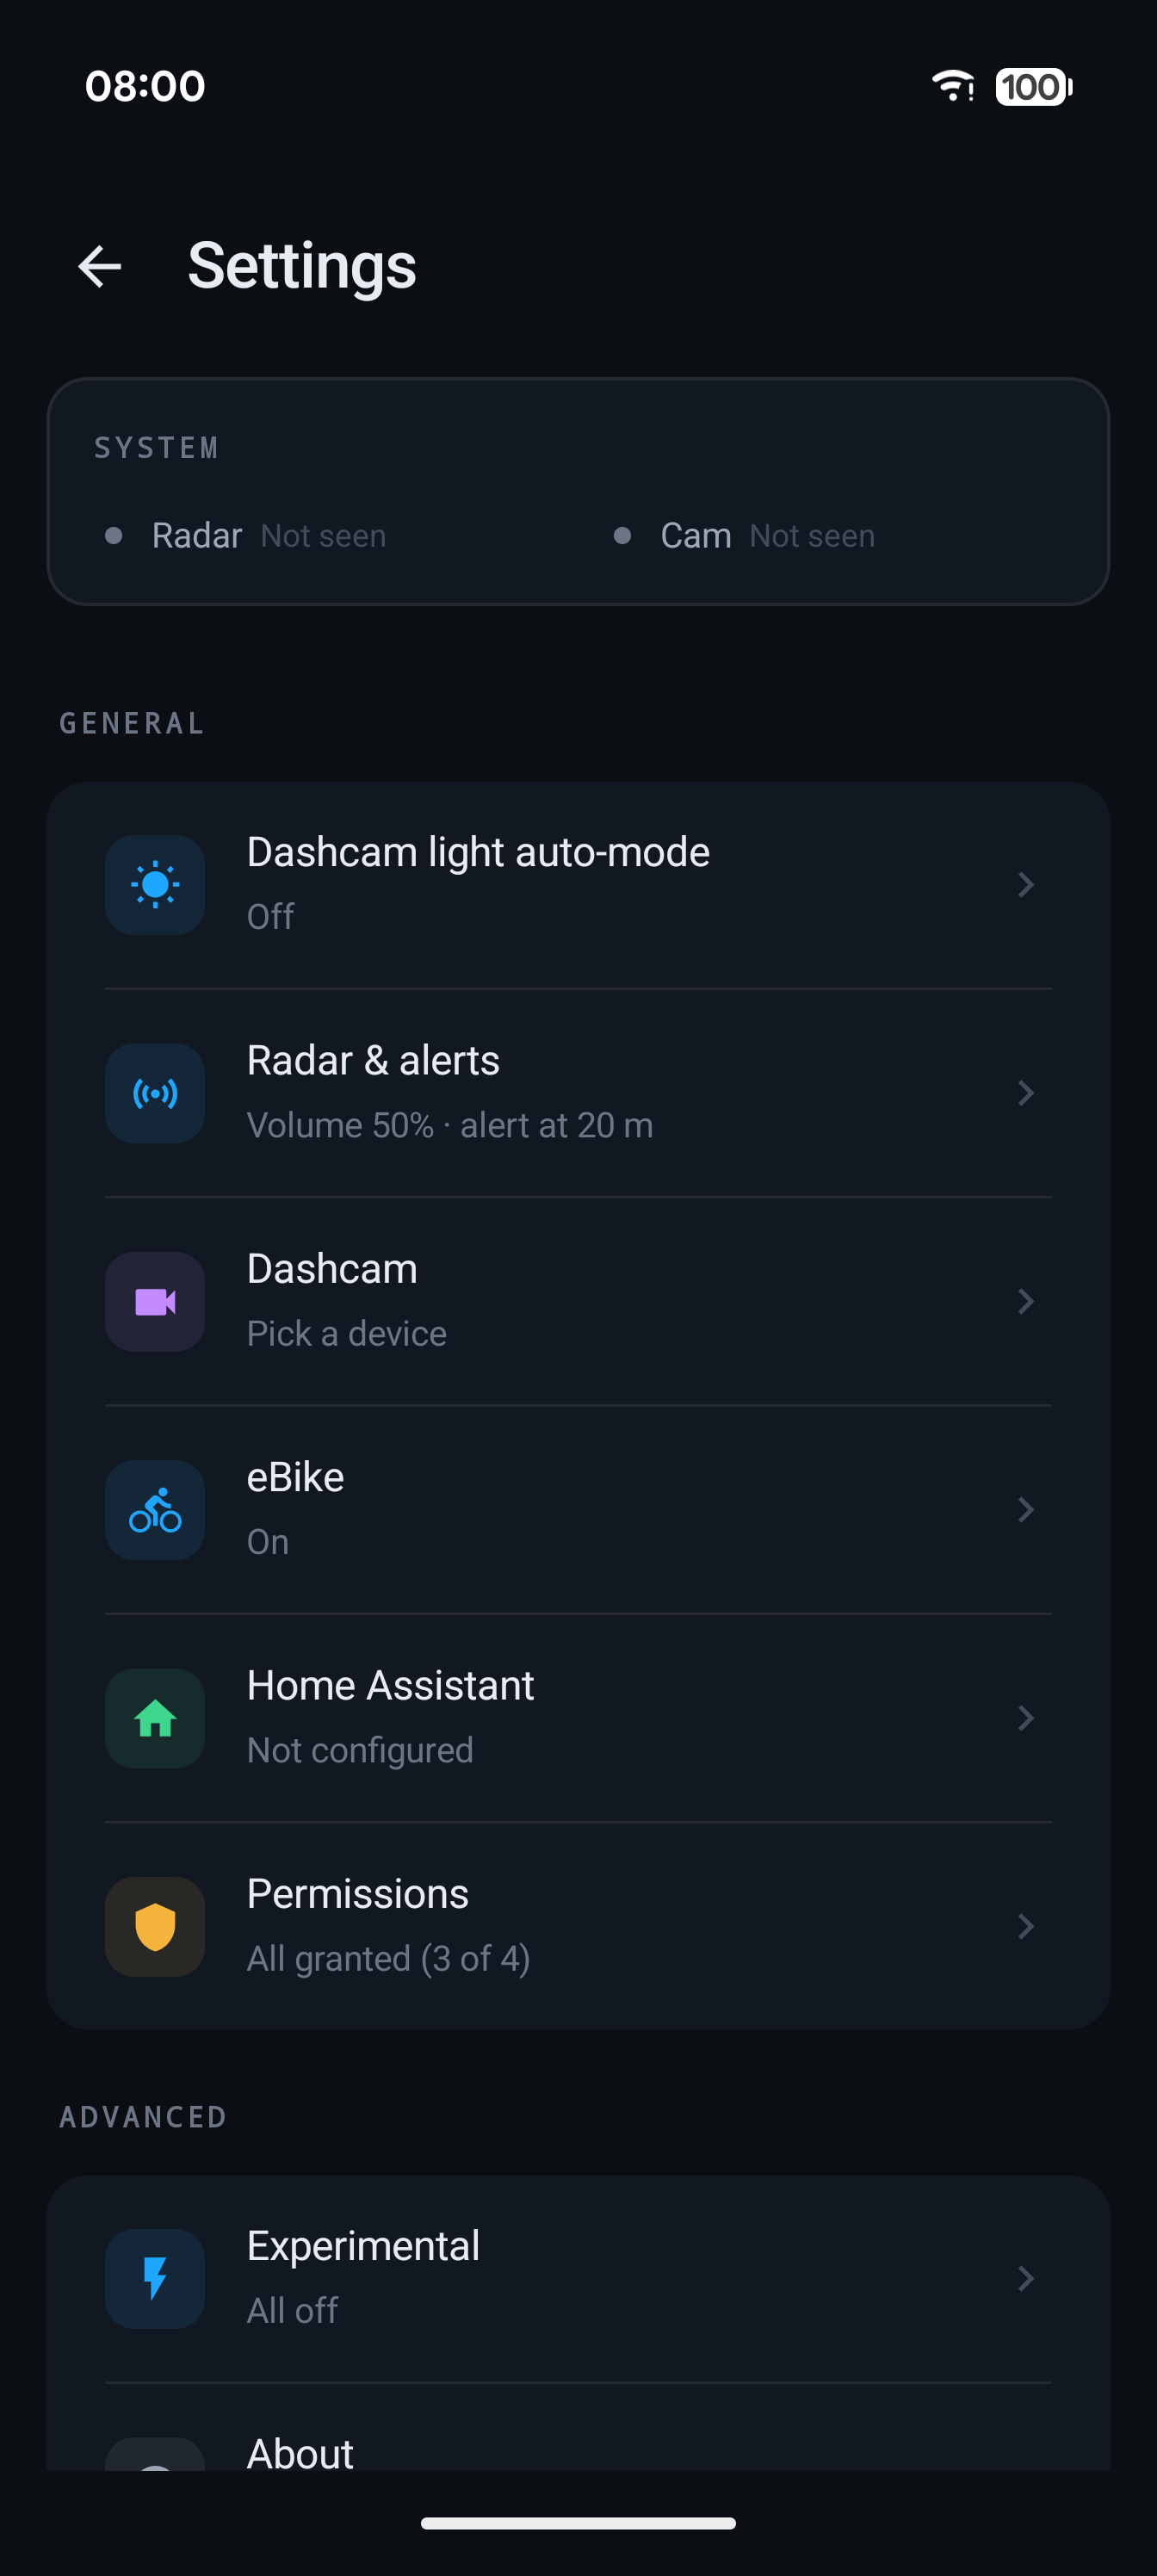
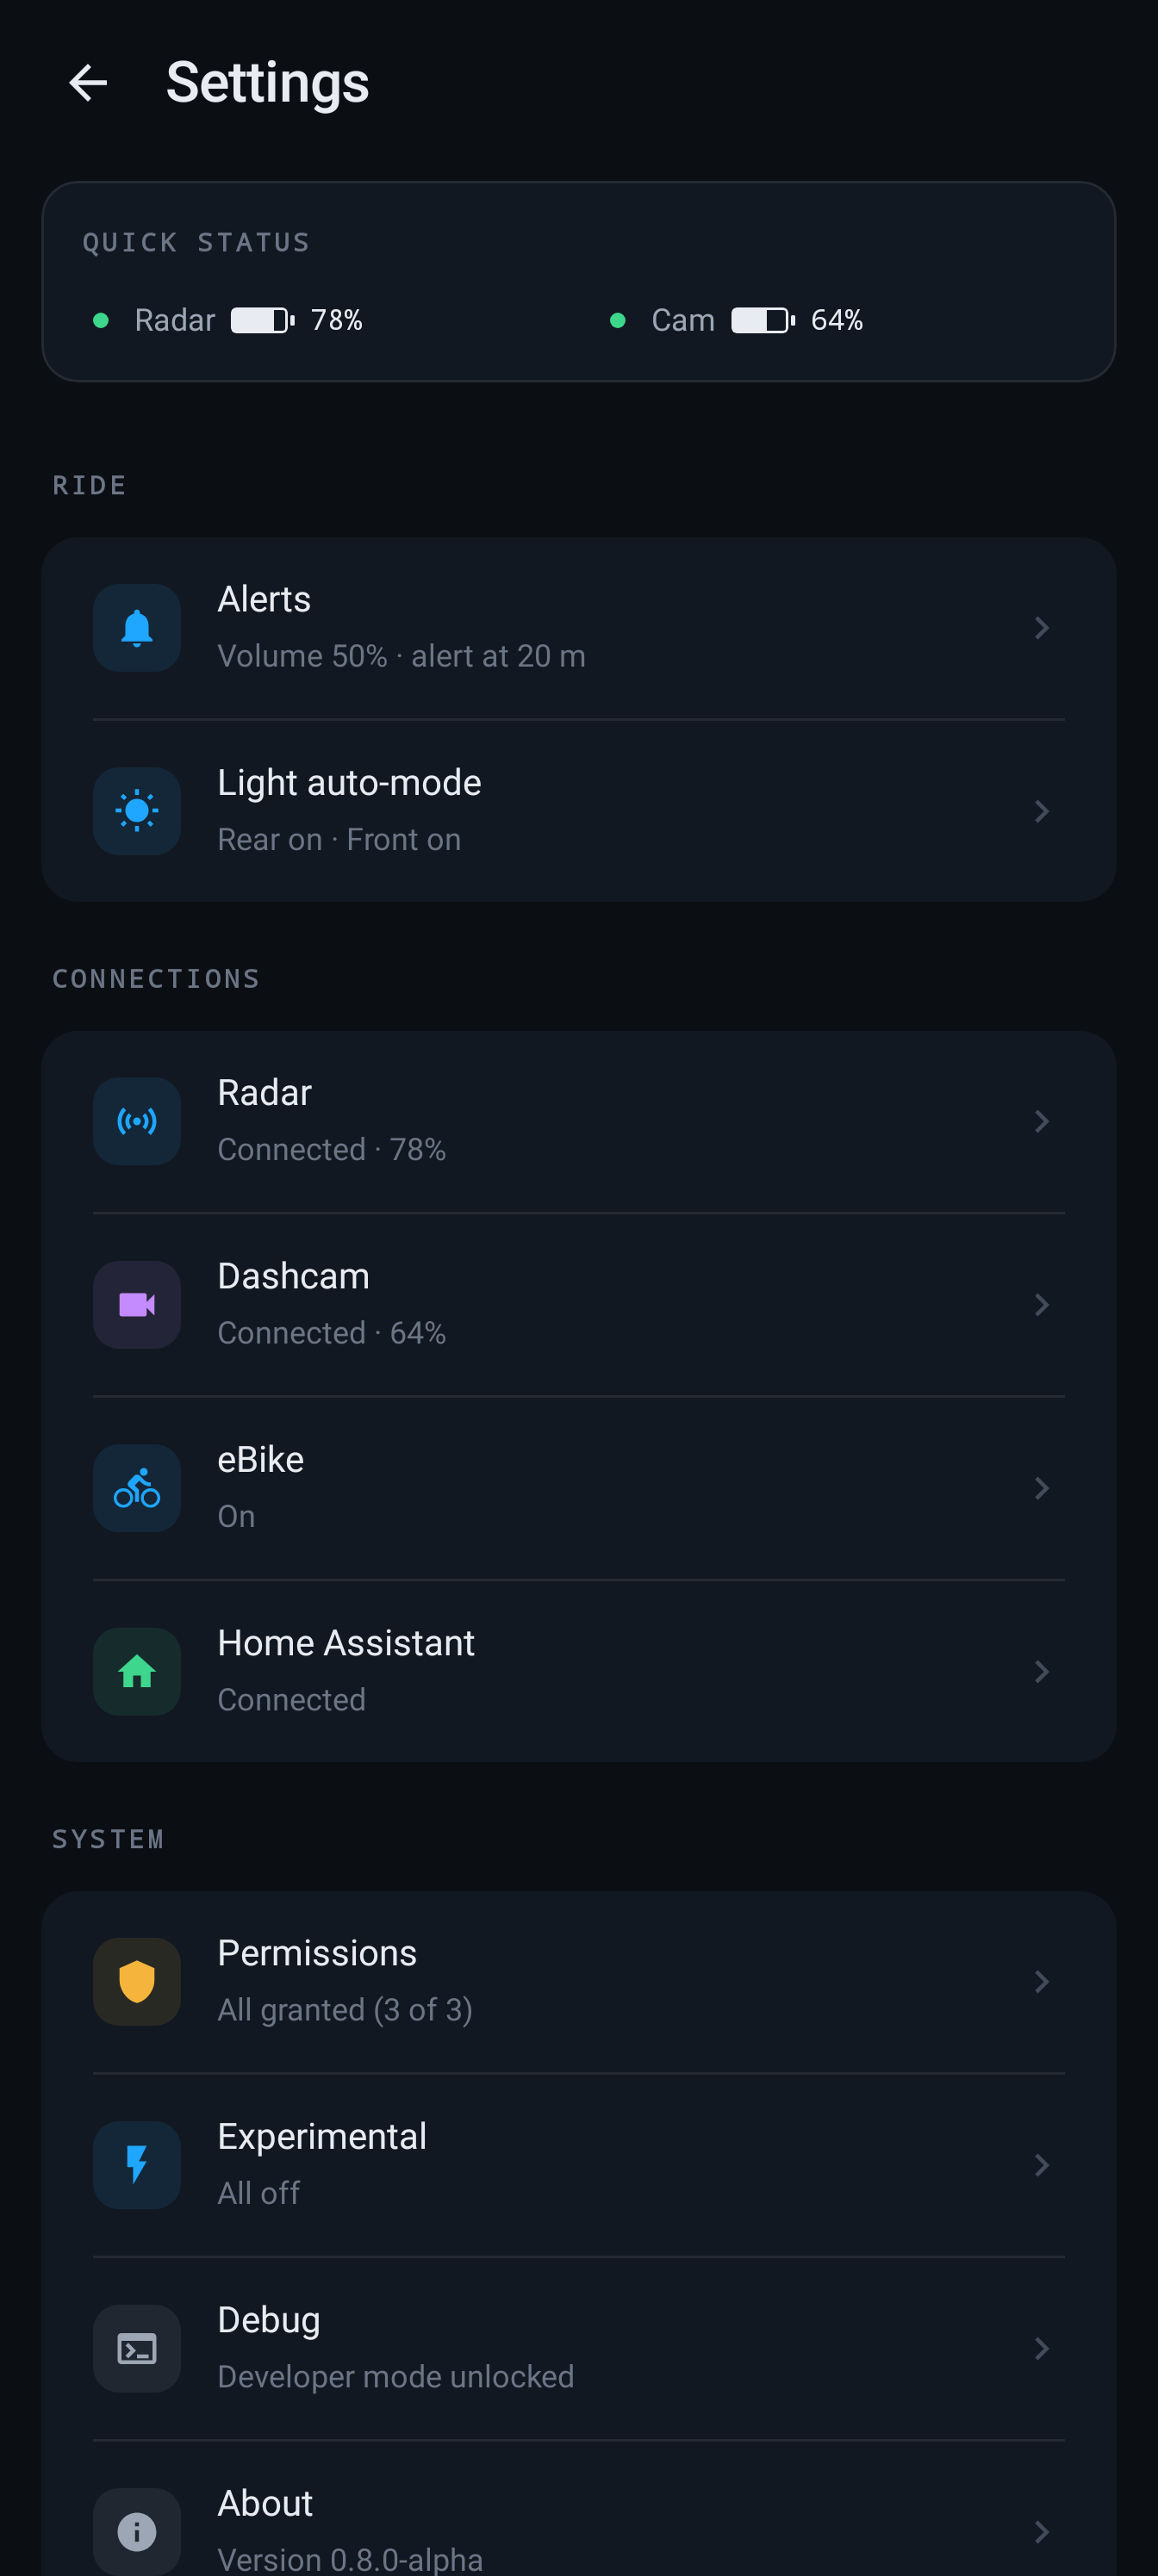
docs: refresh README screenshots for the regrouped Settings IA
The Settings IA refactor (Light auto-mode screen, Ride/Connections/
System regroup, Quick Status, radar-device link) shipped without
updated screenshots. Regenerate the App-screens grid from the
Roborazzi configured-state goldens so each screen shows a
fully-configured rider. The grid now covers the new Light auto-mode
and Radar device screens, replacing the old "radar-alerts" shot, and
the hero overlay asset moves to overlay-live.png. Settings-home golden
fixture set to eBike-configured to match.

diff --git a/app/src/test/java/es/jjrh/bikeradar/ui/SettingsScreenSnapshotTest.kt b/app/src/test/java/es/jjrh/bikeradar/ui/SettingsScreenSnapshotTest.kt
@@ -37,6 +37,8 @@ class SettingsScreenSnapshotTest {
                         dashcamOwnership = es.jjrh.bikeradar.data.DashcamOwnership.YES,
                         autoLightModeEnabled = true,
                         radarLightAutoModeEnabled = true,
+                        eBikeOwnership = es.jjrh.bikeradar.data.EBikeOwnership.YES,
+                        eBikeDataEnabled = true,
                     ),
                     radarBattery = BatteryEntry("radar", "RearVue8", 78, readAtMs = 1_000L),
                     dashcamBattery = BatteryEntry("vue", "Vue", 64, readAtMs = 1_000L),

diff --git a/README.md b/README.md
@@ -1,7 +1,7 @@
 # android-bike-radar-overlay
 
 <p align="left">
-  <img src="screenshots/13-overlay-live.png" width="700" alt="Live overlay during a ride" />
+  <img src="screenshots/overlay-live.png" width="700" alt="Live overlay during a ride" />
 </p>
 
 The app is the faint strip down the right edge of the screenshot above
@@ -66,16 +66,17 @@ repository for the wire protocol, reference decoder, and unit tests.
 <p align="left">
   <img src="screenshots/01-main.png" width="200" alt="Main screen" />
   <img src="screenshots/02-settings.png" width="200" alt="Settings home" />
-  <img src="screenshots/03-radar-alerts.png" width="200" alt="Radar and alerts settings" />
-  <img src="screenshots/04-dashcam.png" width="200" alt="Dashcam settings" />
-  <img src="screenshots/05-home-assistant.png" width="200" alt="Home Assistant settings" />
-  <img src="screenshots/06-ebike.png" width="200" alt="eBike settings" />
-  <img src="screenshots/07-permissions.png" width="200" alt="Permissions settings" />
-  <img src="screenshots/08-experimental.png" width="200" alt="Experimental settings" />
-  <img src="screenshots/09-debug.png" width="200" alt="Debug screen (developer mode)" />
-  <img src="screenshots/10-about.png" width="200" alt="About screen" />
-  <img src="screenshots/11-licences.png" width="200" alt="Open source licences" />
-  <img src="screenshots/12-privacy.png" width="200" alt="Privacy notice" />
+  <img src="screenshots/03-alerts.png" width="200" alt="Alerts settings" />
+  <img src="screenshots/04-light-auto-mode.png" width="200" alt="Light auto-mode settings" />
+  <img src="screenshots/05-radar.png" width="200" alt="Radar device settings" />
+  <img src="screenshots/06-dashcam.png" width="200" alt="Dashcam settings" />
+  <img src="screenshots/07-home-assistant.png" width="200" alt="Home Assistant settings" />
+  <img src="screenshots/08-ebike.png" width="200" alt="eBike settings" />
+  <img src="screenshots/09-permissions.png" width="200" alt="Permissions settings" />
+  <img src="screenshots/10-experimental.png" width="200" alt="Experimental settings" />
+  <img src="screenshots/11-about.png" width="200" alt="About screen" />
+  <img src="screenshots/12-licences.png" width="200" alt="Open source licences" />
+  <img src="screenshots/13-privacy.png" width="200" alt="Privacy notice" />
 </p>
 
 Debug screen is hidden behind a three-tap long-press unlock on the app title.